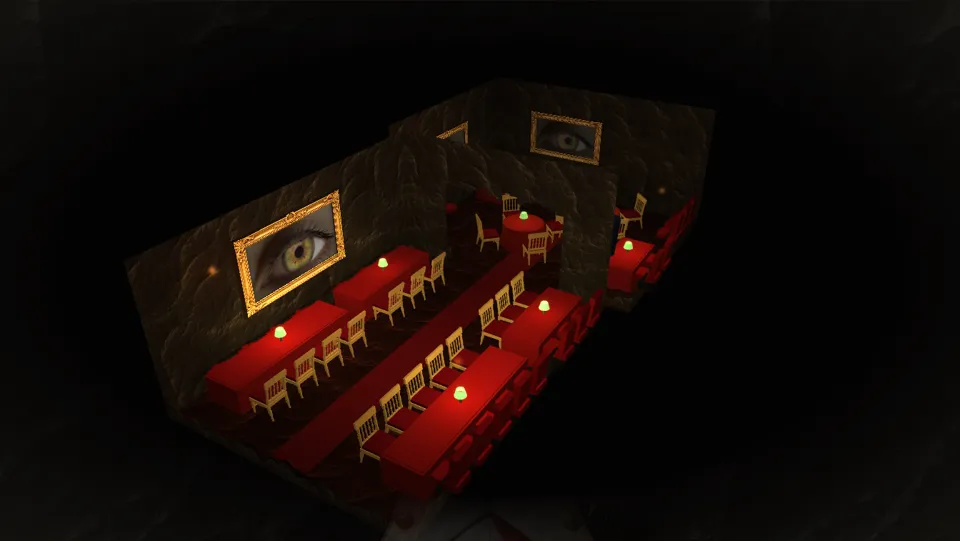
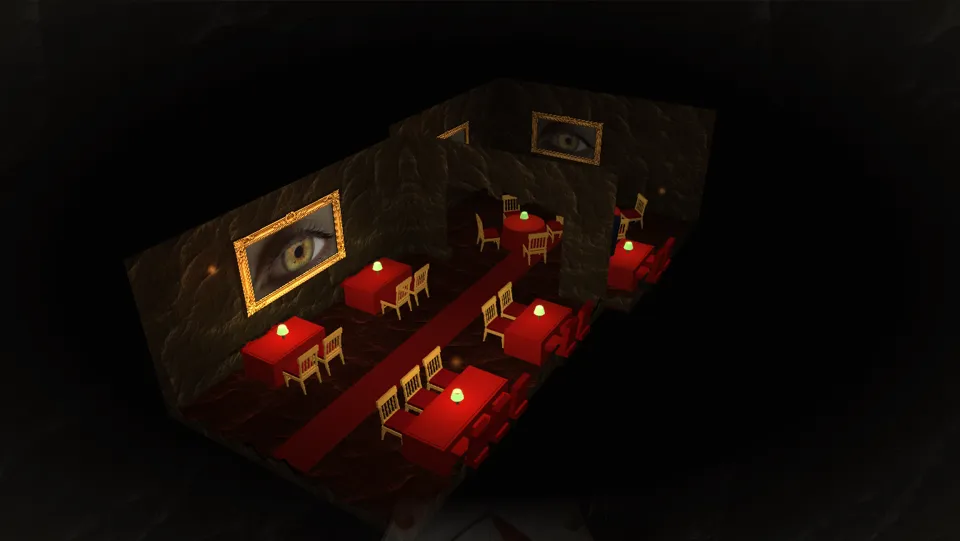
Grotte Napoléon : la salle 3D compte exactement 30 places, comme le vrai restaurant
Claude-Session: https://claude.ai/code/session_01Tg9JuPFfiTJrQ2axzwAjp1

diff --git a/clients/la-grotte-napoleon/salle.js b/clients/la-grotte-napoleon/salle.js
@@ -87,8 +87,9 @@
     [[-X2 + .02, 1.3, -1.8], [1, 0, 0], 1.4], [[-.7, 1.3, ZF + .02], [0, 0, 1], 1.4], [[X2 - .02, 1.3, -2.3], [-1, 0, 0], 1.5]];
   const N = ECRANS.length, CG = .099, CH = .148;
   /* les tables collées au mur [x, z, demi-largeur, demi-longueur] (l'allée est du côté du centre), et les tables rondes [x, z, rayon] */
-  const LONGUES = [[-X + .52, 1.55, .28, .9], [-X + .52, 3.95, .28, 1.1], [X - .52, 1.35, .28, .75], [X - .52, 3.75, .28, 1.25],
-    [X2 - .52, -1.2, .28, .55], [-X2 + .52, -3.2, .28, .5]];
+  /* 30 places en tout, comme le vrai restaurant : 18 dans la grande salle (2 + 2 tables collées au mur), 12 dans la salle du fond (2 rondes de 4, une table de 4) */
+  const LONGUES = [[-X + .52, 1.7, .28, .5], [-X + .52, 3.9, .28, .5], [X - .52, 1.5, .28, .5], [X - .52, 3.8, .28, .75],
+    [X2 - .52, -1.2, .28, .5]];
   const RONDES = [[-.3, -1.35, .4], [.75, -2.65, .4]];
   const CHAISES = [], FAUTEUILS = [];
   for (const [x, z, hx, hz] of LONGUES) {
@@ -167,8 +168,6 @@
     FS.push([x, .11, z, .1, .11, .12, a]);
     for (const dz of [-.21, .21]) FS.push([x - s * .02, .33, z + dz, .15, .015, .018, a]); };
   for (const [x, z, s] of FAUTEUILS) fauteuil(x, z, s);
-  for (let k = 0; k < 3; k++) fauteuil(X2 - .2, -2.65 - k * .45, -1);                                 /* le long du mur droit du fond */
-  for (let k = 0; k < 3; k++) fauteuil(-X2 + .2, -.55 - k * .45, 1);                                   /* le long du mur gauche du fond */
   const fauteuils = paves(FV), fauteuilsPied = paves(FS);
   /* le mannequin en costume de Napoléon, près de l'arcade : un pied, un buste bleu nuit, un plastron blanc, un col rouge */
   const mannequin = [tronc(.025, .025, 0, .78, 8, 1.75, -.4), tronc(.15, .2, .78, 1.42, 18, 1.75, -.4), tronc(.07, .05, 1.42, 1.5, 12, 1.75, -.4)];

diff --git a/clients/la-grotte-napoleon/produit.html b/clients/la-grotte-napoleon/produit.html
@@ -8,7 +8,7 @@
 <meta name="robots" content="noindex">
 <meta name="theme-color" content="#161411">
 <link rel="icon" href="images/couronne.png">
-<link rel="stylesheet" href="grotte.css?v=20261102a">
+<link rel="stylesheet" href="grotte.css?v=20261102b">
 </head>
 <body data-titre="meta-produit">
 <div class="maquette" data-t="bandeau">Maquette préparée par Saitora pour La Grotte Napoléon : à valider ensemble avant la mise en ligne.</div>
@@ -89,8 +89,8 @@
   <a href="./#venir" data-t="barre-plan">Plan</a>
 </div>
 
-<script src="produits.js?v=20261102a"></script>
-<script src="textes.js?v=20261102a"></script>
-<script src="grotte.js?v=20261102a"></script>
+<script src="produits.js?v=20261102b"></script>
+<script src="textes.js?v=20261102b"></script>
+<script src="grotte.js?v=20261102b"></script>
 </body>
 </html>

diff --git a/clients/la-grotte-napoleon/panier.html b/clients/la-grotte-napoleon/panier.html
@@ -8,7 +8,7 @@
 <meta name="robots" content="noindex">
 <meta name="theme-color" content="#161411">
 <link rel="icon" href="images/couronne.png">
-<link rel="stylesheet" href="grotte.css?v=20261102a">
+<link rel="stylesheet" href="grotte.css?v=20261102b">
 </head>
 <body data-titre="meta-panier">
 <div class="maquette" data-t="bandeau">Maquette préparée par Saitora pour La Grotte Napoléon : à valider ensemble avant la mise en ligne.</div>
@@ -79,8 +79,8 @@
   <a href="./#venir" data-t="barre-plan">Plan</a>
 </div>
 
-<script src="produits.js?v=20261102a"></script>
-<script src="textes.js?v=20261102a"></script>
-<script src="grotte.js?v=20261102a"></script>
+<script src="produits.js?v=20261102b"></script>
+<script src="textes.js?v=20261102b"></script>
+<script src="grotte.js?v=20261102b"></script>
 </body>
 </html>

diff --git a/clients/la-grotte-napoleon/boutique.html b/clients/la-grotte-napoleon/boutique.html
@@ -8,7 +8,7 @@
 <meta name="robots" content="noindex">
 <meta name="theme-color" content="#161411">
 <link rel="icon" href="images/couronne.png">
-<link rel="stylesheet" href="grotte.css?v=20261102a">
+<link rel="stylesheet" href="grotte.css?v=20261102b">
 </head>
 <body class="btq" data-titre="meta-boutique">
 <div class="maquette" data-t="bandeau">Maquette préparée par Saitora pour La Grotte Napoléon : à valider ensemble avant la mise en ligne.</div>
@@ -270,8 +270,8 @@
 </div>
 
 
-<script src="produits.js?v=20261102a"></script>
-<script src="textes.js?v=20261102a"></script>
-<script src="grotte.js?v=20261102a"></script>
+<script src="produits.js?v=20261102b"></script>
+<script src="textes.js?v=20261102b"></script>
+<script src="grotte.js?v=20261102b"></script>
 </body>
 </html>

diff --git a/clients/la-grotte-napoleon/reserver.html b/clients/la-grotte-napoleon/reserver.html
@@ -8,7 +8,7 @@
 <meta name="robots" content="noindex">
 <meta name="theme-color" content="#161411">
 <link rel="icon" href="images/couronne.png">
-<link rel="stylesheet" href="grotte.css?v=20261102a">
+<link rel="stylesheet" href="grotte.css?v=20261102b">
 </head>
 <body data-titre="meta-reserver">
 <div class="maquette" data-t="bandeau">Maquette préparée par Saitora pour La Grotte Napoléon : à valider ensemble avant la mise en ligne.</div>
@@ -93,7 +93,7 @@
   <a href="./#venir" data-t="barre-plan">Plan</a>
 </div>
 
-<script src="textes.js?v=20261102a"></script>
-<script src="grotte.js?v=20261102a"></script>
+<script src="textes.js?v=20261102b"></script>
+<script src="grotte.js?v=20261102b"></script>
 </body>
 </html>

diff --git a/clients/la-grotte-napoleon/formules.html b/clients/la-grotte-napoleon/formules.html
@@ -8,7 +8,7 @@
 <meta name="robots" content="noindex">
 <meta name="theme-color" content="#161411">
 <link rel="icon" href="images/couronne.png">
-<link rel="stylesheet" href="grotte.css?v=20261102a">
+<link rel="stylesheet" href="grotte.css?v=20261102b">
 </head>
 <body data-titre="meta-formules">
 <div class="maquette" data-t="bandeau">Maquette préparée par Saitora pour La Grotte Napoléon : à valider ensemble avant la mise en ligne.</div>
@@ -146,7 +146,7 @@
 </div>
 
 
-<script src="textes.js?v=20261102a"></script>
-<script src="grotte.js?v=20261102a"></script>
+<script src="textes.js?v=20261102b"></script>
+<script src="grotte.js?v=20261102b"></script>
 </body>
 </html>

diff --git a/clients/la-grotte-napoleon/index.html b/clients/la-grotte-napoleon/index.html
@@ -8,7 +8,7 @@
 <meta name="robots" content="noindex">
 <meta name="theme-color" content="#161411">
 <link rel="icon" href="images/couronne.png">
-<link rel="stylesheet" href="grotte.css?v=20261102a">
+<link rel="stylesheet" href="grotte.css?v=20261102b">
 </head>
 <body data-titre="meta-titre">
 <div class="maquette" data-t="bandeau">Maquette préparée par Saitora pour La Grotte Napoléon : à valider ensemble avant la mise en ligne.</div>
@@ -204,7 +204,7 @@
 </div>
 
 
-<script src="textes.js?v=20261102a"></script>
-<script src="grotte.js?v=20261102a"></script>
+<script src="textes.js?v=20261102b"></script>
+<script src="grotte.js?v=20261102b"></script>
 </body>
 </html>

diff --git a/clients/la-grotte-napoleon/NOTES.md b/clients/la-grotte-napoleon/NOTES.md
@@ -69,3 +69,4 @@ Tout ce qui a été fait, décidé ou refusé sur ce site (repris de `ETAT.md` l
 - **La salle 3D refaite d’après la vraie (1er novembre 2026, photo de l’utilisateur ; « c’est pas en rond », « au fond il y a une arcade et derrière une télé »)** : `salle.js` montre maintenant une longue galerie de roche (environ 4,2 × 8 unités) au sol rouge avec un chemin de tapis ; deux écrans à cadre doré sur chaque mur de côté (écrans plats, ouverture 2/1) ; au fond, un mur percé d’une arcade qui ouvre sur un renfoncement avec le cinquième écran ; trois tables à nappe rouge le long du mur gauche (chaises côté allée), deux longues tables à droite (chaises des deux côtés et aux bouts), deux petites tables dans le renfoncement ; lampes à abat-jour vert, quatre appliques à bougies, rideau rouge au fond à droite. Les murs entre la caméra et la salle s’abaissent (avec leurs écrans) pour voir dedans ; la caméra tourne autour en s’éloignant quand elle voit la galerie de côté. Proportions et nombre de tables à ajuster quand l’utilisateur aura d’autres photos.
 - **La salle 3D en deux parties (1er novembre 2026, deux photos de l’utilisateur)** : salle d’entrée (tables carrées le long du mur gauche, deux longues tables ovales à droite, un écran à cadre doré sur chaque mur) ; au milieu un mur de roche percé d’une arcade au haut irrégulier (deux faces) ; salle du fond (un écran sur chaque mur, tables collées aux deux murs, rideau noir au fond, la cuisine est derrière). Les tables collées au mur ont côté mur une rangée de vieux fauteuils de cinéma rouges (assise, haut dossier incliné, accoudoirs et pied sombres), et des chaises Napoléon dorées côté allée. Quatre écrans (deux par salle) ; depuis l’entrée, celui du fond à droite est caché par l’arcade, comme en vrai. Appliques à côté des écrans.
 - **La salle 3D d’après la vidéo de l’utilisateur (2 novembre 2026)** : la grande salle est longue, avec le long des DEUX murs des tables collées au mur, une rangée de fauteuils de cinéma rouges contre le mur et des chaises dorées côté allée, un écran à cadre doré sur chaque mur, le rideau noir au bout (cuisine derrière) et des rideaux sur le mur droit près de l’arcade ; une arcade de roche large et basse (linteau irrégulier) ; la salle du fond, plus large : deux tables rondes avec chaises dorées, une table collée à chaque mur, des fauteuils de cinéma le long des murs, trois écrans (gauche, fond, droite ; celui de droite est caché par l’arcade depuis la grande salle), un mannequin en costume. Cinq écrans en tout.
+- **30 places exactement (2 novembre 2026, précision de l’utilisateur)** : grande salle 18 places (à gauche deux tables de 4, à droite une table de 4 et une de 6 ; chaque table : moitié fauteuils de cinéma côté mur, moitié chaises dorées côté allée) ; salle du fond 12 places (deux tables rondes de 4, une table de 4 contre le mur droit). Les rangées de fauteuils en plus le long des murs du fond sont retirées.
